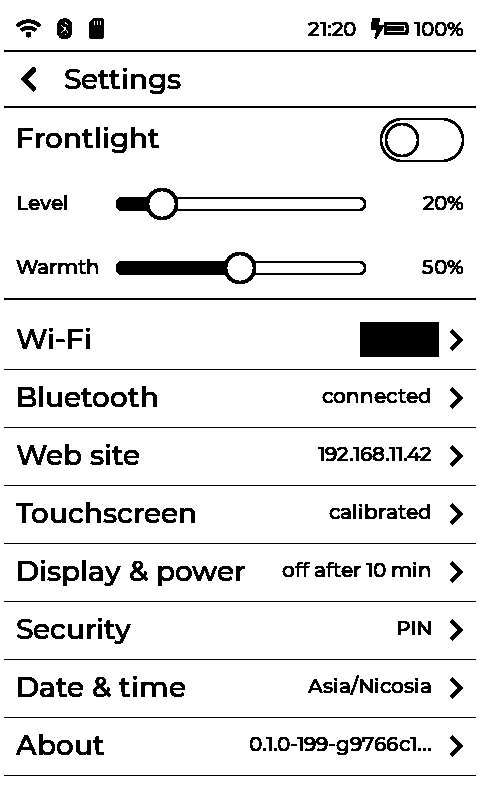
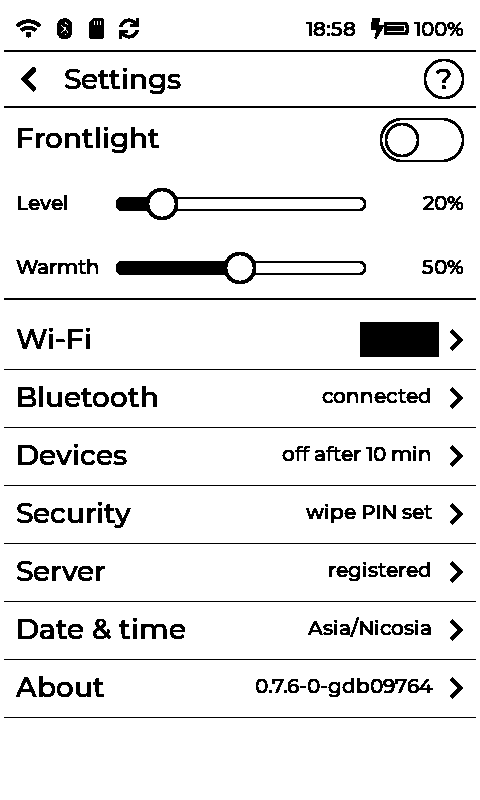
feat: Settings: a "?" in the title opens Help (the Power button, the list, the generator, FIDO2, dialogs: settings::kHelp); manual: Settings and Help screenshots +ai

diff --git a/components/ui/screens.cpp b/components/ui/screens.cpp
@@ -580,7 +580,7 @@ void OnBack(lv_event_t *) {
 // Settings / FIDO2: a back arrow and the screen's name over the page.
 constexpr int32_t kTitleHeight = 56;
 
-void TitleBar(const char *title, const char *right = nullptr) {
+lv_obj_t *TitleBar(const char *title, const char *right = nullptr) {
     lv_obj_t *head = lv_obj_create(content);
     lv_obj_remove_style_all(head);
     lv_obj_remove_flag(head, LV_OBJ_FLAG_SCROLLABLE);
@@ -605,6 +605,7 @@ void TitleBar(const char *title, const char *right = nullptr) {
         lv_label_set_text(r, right);
         lv_obj_align(r, LV_ALIGN_RIGHT_MID, -12, 0);
     }
+    return head;
 }
 
 // --- the U2F / FIDO2 keys ----------------------------------------------------------
@@ -1096,9 +1097,29 @@ void OnAction(lv_event_t *) {
     }
 }
 
-// The frontlight, then a row per page: its name, its summary, ">".
+// The frontlight, then a row per page: its name, its summary, ">"; a "?" in
+// the title opens Help.
 void ShowSettingsMain() {
-    TitleBar("Settings");
+    lv_obj_t *head = TitleBar("Settings");
+    // The tap area: the right quarter, the bar's height; a round "?" in it.
+    lv_obj_t *help = lv_obj_create(head);
+    lv_obj_remove_style_all(help);
+    lv_obj_add_flag(help, LV_OBJ_FLAG_CLICKABLE);
+    lv_obj_set_size(help, kQuarter, kTitleHeight);
+    lv_obj_align(help, LV_ALIGN_RIGHT_MID, 0, 0);
+    lv_obj_add_event_cb(help, OnSettingsRow, LV_EVENT_CLICKED,
+                        reinterpret_cast<void *>(static_cast<uintptr_t>(settings::Page::kHelp)));
+    lv_obj_t *ring = lv_obj_create(help);
+    lv_obj_remove_style_all(ring);
+    lv_obj_remove_flag(ring, LV_OBJ_FLAG_CLICKABLE);
+    lv_obj_set_size(ring, 40, 40);
+    lv_obj_set_style_radius(ring, LV_RADIUS_CIRCLE, 0);
+    lv_obj_set_style_border_width(ring, 2, 0);
+    lv_obj_set_style_border_color(ring, lv_color_black(), 0);
+    lv_obj_align(ring, LV_ALIGN_RIGHT_MID, -12, 0);
+    lv_obj_t *mark = Label(ring, &lv_font_montserrat_28);
+    lv_label_set_text(mark, "?");
+    lv_obj_center(mark);
     int32_t y = kTitleHeight + AddLight(kTitleHeight) + 12;
     char summary[48];
     char unused[2];
@@ -1123,6 +1144,31 @@ void ShowSettingsMain() {
         lv_obj_set_size(s, 190, 26);
         lv_label_set_text(s, summary);
         lv_obj_align(s, LV_ALIGN_RIGHT_MID, -44, 0);
+    }
+}
+
+// Help (settings::kHelp): headings, then "key  what" lines.
+void ShowHelp() {
+    TitleBar(settings::Title(settings::Page::kHelp));
+    constexpr int32_t kKeyWidth = 170;
+    int32_t y = kTitleHeight + 6;
+    for (const settings::HelpLine &line : settings::kHelp) {
+        if (line.key == nullptr) {
+            lv_obj_t *h = Label(content, &lv_font_montserrat_24);
+            lv_label_set_text(h, line.what);
+            lv_obj_set_pos(h, 12, y + 6);
+            y += 36;
+            continue;
+        }
+        lv_obj_t *k = Label(content, &lv_font_montserrat_20);
+        lv_label_set_text(k, line.key);
+        lv_obj_set_pos(k, 24, y);
+        lv_obj_t *w = Label(content, &lv_font_montserrat_20);
+        lv_label_set_long_mode(w, LV_LABEL_LONG_MODE_DOTS);
+        lv_obj_set_size(w, kRowWidth - 24 - kKeyWidth - 12, 26);
+        lv_label_set_text(w, line.what);
+        lv_obj_set_pos(w, 24 + kKeyWidth, y);
+        y += 28;
     }
 }
 
@@ -3847,6 +3893,10 @@ void ShowSettings() {
     if (page != settings::Page::kWebLogin) {
         login_on_password = page == settings::Page::kWebLogin && login_on_password;
     }
+    if (page == settings::Page::kHelp) {
+        ShowHelp();
+        return;
+    }
     if (page == settings::Page::kFido && settings_hooks != nullptr) {
         SettingsText(page, settings_shown, sizeof settings_shown);
         ShowFidoSettings();
@@ -4940,7 +4990,7 @@ void Poll(lv_timer_t *) {
         settings_page != settings::Page::kServerEmail &&
         settings_page != settings::Page::kServerConfig &&
         settings_page != settings::Page::kServerSyncPin &&
-        settings_page != settings::Page::kServerSyncPick &&
+        settings_page != settings::Page::kServerSyncPick && settings_page != settings::Page::kHelp &&
         lv_tick_elaps(settings_looked_at) >= kSettingsMs) {
         settings_looked_at = lv_tick_get();
         if (settings_page == settings::Page::kWifi && wifi_hooks != nullptr) {

diff --git a/components/ui/settings_logic.h b/components/ui/settings_logic.h
@@ -48,6 +48,7 @@ enum class Page : uint8_t {
     kServerSyncPin, // Server > Sync: the PIN of the server's copy, on the keyboard
     kServerSyncPick,  // Server > Sync: which of several stores on the server is taken
     kServerFirmware,  // Server > Firmware: the server's releases, newest first
+    kHelp,            // the "?" in Settings' title: what the buttons do
 };
 
 // Where a page's back arrow goes.
@@ -117,6 +118,7 @@ constexpr const char *Title(Page p) {
         case Page::kServerSyncPin: return "The copy's PIN";
         case Page::kServerSyncPick: return "Which copy?";
         case Page::kServerFirmware: return "Firmware";
+        case Page::kHelp: return "Help";
     }
     return "";
 }
@@ -322,6 +324,36 @@ constexpr const char *FirmwareTag(const FirmwareRow &r) {
     return r.running ? "running" : r.newer ? (r.active ? "new, offered" : "new")
                                        : r.active ? "offered" : "";
 }
+
+// Help: what the buttons and swipes do; a line without a key is a heading.
+struct HelpLine {
+    const char *key;
+    const char *what;
+};
+inline constexpr HelpLine kHelp[] = {
+    {nullptr, "Power button"},
+    {"x2", "the frontlight on / off"},
+    {"Held", "off"},
+    {"x3", "off, the PIN after the wake"},
+    {nullptr, "The list"},
+    {"Left / Right", "the page before / after"},
+    {"Home", "page 1; closes a screen"},
+    {"Swipe down", "from the top: Settings"},
+    {"Swipe up", "from the bottom: keys"},
+    {"Swipe right", "the password generator"},
+    {nullptr, "Password generator"},
+    {"Left", "a new password"},
+    {"Right, Home x1", "type it"},
+    {"Home x2", "back"},
+    {nullptr, "FIDO2 asks"},
+    {"Left, Home x1", "allow"},
+    {"Right, Home x2", "reject"},
+    {"Reset", "hold Left or Home 5 s"},
+    {nullptr, "Dialogs"},
+    {"Right", "No, Cancel"},
+    {"Yes", "held 4 s where it fills"},
+};
+inline constexpr uint8_t kHelpCount = sizeof kHelp / sizeof kHelp[0];
 
 // The frontlight's sliders: brightness 1..100 (0 is 1), warmth 0..100.
 constexpr uint8_t Brightness(int32_t slider) {

diff --git a/host_test/test_ui.cpp b/host_test/test_ui.cpp
@@ -717,6 +717,18 @@ void test_settings_pages(void) {
     TEST_ASSERT_TRUE(st::PageAction(st::Page::kFido) == st::Action::kFidoReset);
     TEST_ASSERT_TRUE(st::Parent(st::Page::kFido) == st::Page::kSecurity);
     TEST_ASSERT_EQUAL_STRING("Lock now", st::ActionText(st::Action::kLockNow));
+    // Help: back to Settings, no button; starts with a heading, each one has lines.
+    TEST_ASSERT_TRUE(st::Parent(st::Page::kHelp) == st::Page::kMain);
+    TEST_ASSERT_EQUAL_STRING("Help", st::Title(st::Page::kHelp));
+    TEST_ASSERT_TRUE(st::PageAction(st::Page::kHelp) == st::Action::kNone);
+    TEST_ASSERT_NULL(st::kHelp[0].key);
+    TEST_ASSERT_NOT_NULL(st::kHelp[st::kHelpCount - 1].key);
+    for (uint8_t i = 0; i < st::kHelpCount; ++i) {
+        TEST_ASSERT_NOT_NULL(st::kHelp[i].what);
+        if (i > 0) {
+            TEST_ASSERT_FALSE(st::kHelp[i].key == nullptr && st::kHelp[i - 1].key == nullptr);
+        }
+    }
 
     char label[8];
     char value[8];

diff --git a/main/main.cpp b/main/main.cpp
@@ -1076,7 +1076,8 @@ void SettingsDescribe(ui::settings::Page page, bool summary, char *out, size_t s
         case Page::kServerEmail:
         case Page::kServerConfig:
         case Page::kServerSyncPin: break;
-        case Page::kServerSyncPick: break;
+        case Page::kServerSyncPick:
+        case Page::kHelp: break;
         case Page::kServerSync:
             if (!summary) {
                 DescribeSync(out, size);

diff --git a/docs/architecture.md b/docs/architecture.md
@@ -18,7 +18,7 @@ Target and status. Screen design and the open questions: [x4-design.md](x4-desig
 | Sync with the authentication server (`vault.bin`, `fido.bin`), conflicts resolved by hand | done (Settings > Server > Sync, console `server sync`) |
 | Authentication server (`auth.merlokk.com`): registration, sign-in with the device's TOTP | device side done (Settings > Server, console `server`); the server is being written |
 | X4 Pro screen: status bar, credential list, pages, settings | status bar, the password list (pages, typing, TOTP), swipes, PIN pad, the U2F / FIDO2 list, Settings done |
-| Settings: frontlight, Wi-Fi | on the screen: frontlight, Wi-Fi (and the web site), Bluetooth, Devices (power, display, USB, touch calibration), security, date & time, about; also the console and the site |
+| Settings: frontlight, Wi-Fi | on the screen: frontlight, Wi-Fi (and the web site), Bluetooth, Devices (power, display, USB, touch calibration), security, date & time, about, Help (the "?" in the title: what the buttons do); also the console and the site |
 | Time: SNTP, zones, clock | done |
 | Battery: voltage, level, charging | done (CW2017 + charger STAT, console `battery`, BLE Battery Level, the status bar) |
 | Wi-Fi, configuration site, console | done |

diff --git a/CLAUDE.md b/CLAUDE.md
@@ -32,7 +32,7 @@ Firmware: C/C++ on **ESP-IDF**.
   charger STAT on a leased I2C bus (`battery`, BLE Battery Level); microSD
   (SDMMC, FAT at `/sdcard`, `sd` read-only but wallpapers), the store files in
   `/sdcard/.authenticator` on the X4 Pro (no card: no stores); LVGL 9 on the e-ink panel (480x800 portrait, status bar, the password list in pages: a tap types
-  the user / password / TOTP or shows the password; Settings (frontlight; Wi-Fi networks and
+  the user / password / TOTP or shows the password; Settings (a "?" in the title: Help, the buttons; frontlight; Wi-Fi networks and
   the web site with its QR code and login; Bluetooth hosts and pairing;
   Devices: power, display, USB port, touch calibration; security: PIN
   change, wipe PIN, FIDO2 state and reset; date & time; About with

diff --git a/docs/x4-design.md b/docs/x4-design.md
@@ -50,7 +50,8 @@ Portrait, 480x800. The panel scans landscape (hardware.md): `ui_logic.h` turns t
 - **Pages**: a tab per page at the bottom, 4 at most (the row scrolls);
   Left / Right flip them, Home: page 1.
 - **Settings**: a swipe down from the top quarter; its back arrow, a swipe
-  up or Home closes it. As on a phone: the frontlight on top (a switch,
+  up or Home closes it; the "?" in its title: Help (`settings::kHelp`, the
+  buttons and swipes: Power, the list, the generator, FIDO2, dialogs). As on a phone: the frontlight on top (a switch,
   Level and Warmth sliders: lit at once, saved when let go), then a row per
   page with its summary and ">": Wi-Fi, Bluetooth, Devices,
   Security, Server, Date & time, About. A page lists "label  value" lines (looked at every

diff --git a/docs/manual/README.md b/docs/manual/README.md
@@ -110,7 +110,11 @@ number generator).
 <img src="img/settings.png" width="240" align="right">
 
 A swipe down from the top quarter of the screen. The back arrow, a swipe up
-or Home closes it.
+or Home closes it. The **?** in its title opens Help: what the Power button,
+the other buttons and the swipes do on the list, the generator, FIDO2's
+prompt and dialogs.
+
+<img src="img/help.png" width="240" align="right">
 
 - **Frontlight**: the switch, Level and Warmth.
 - A row per page with its summary: Wi-Fi (and the web site), Bluetooth,
